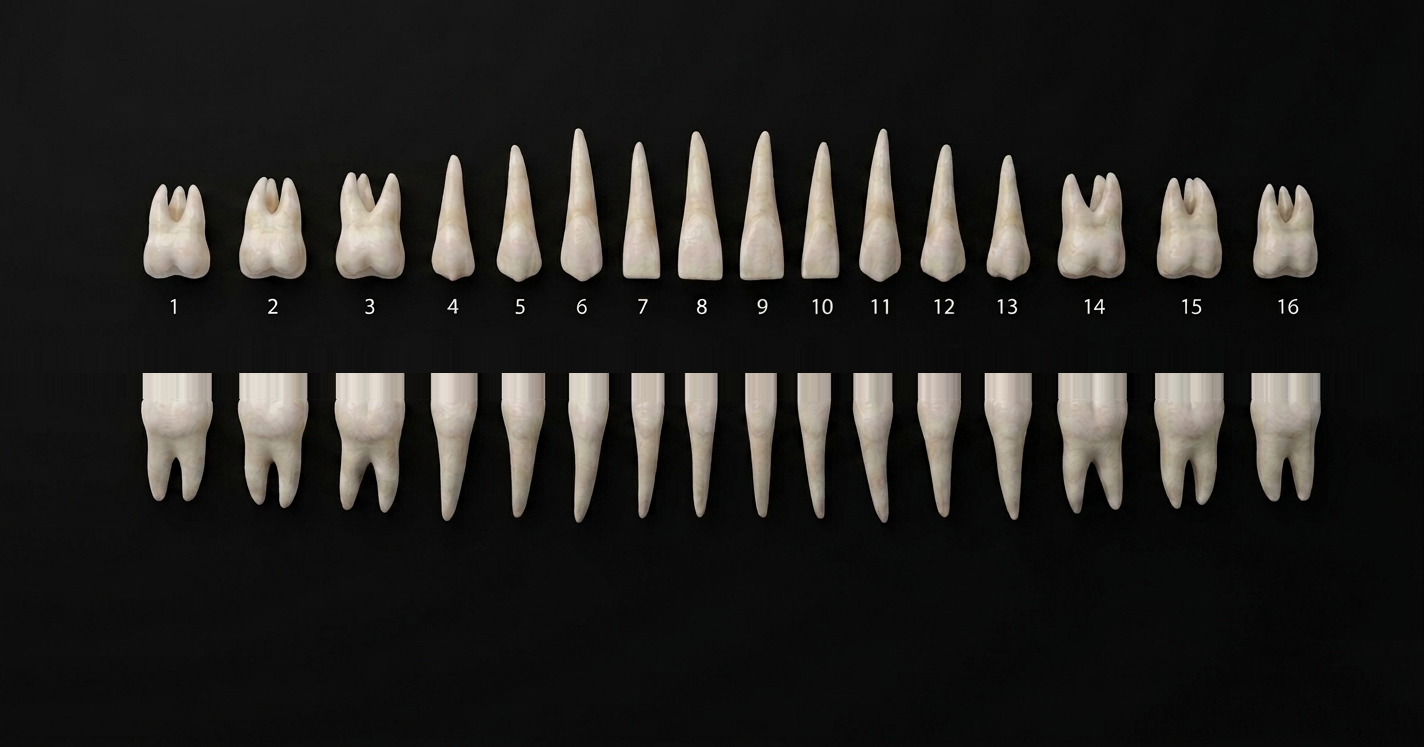
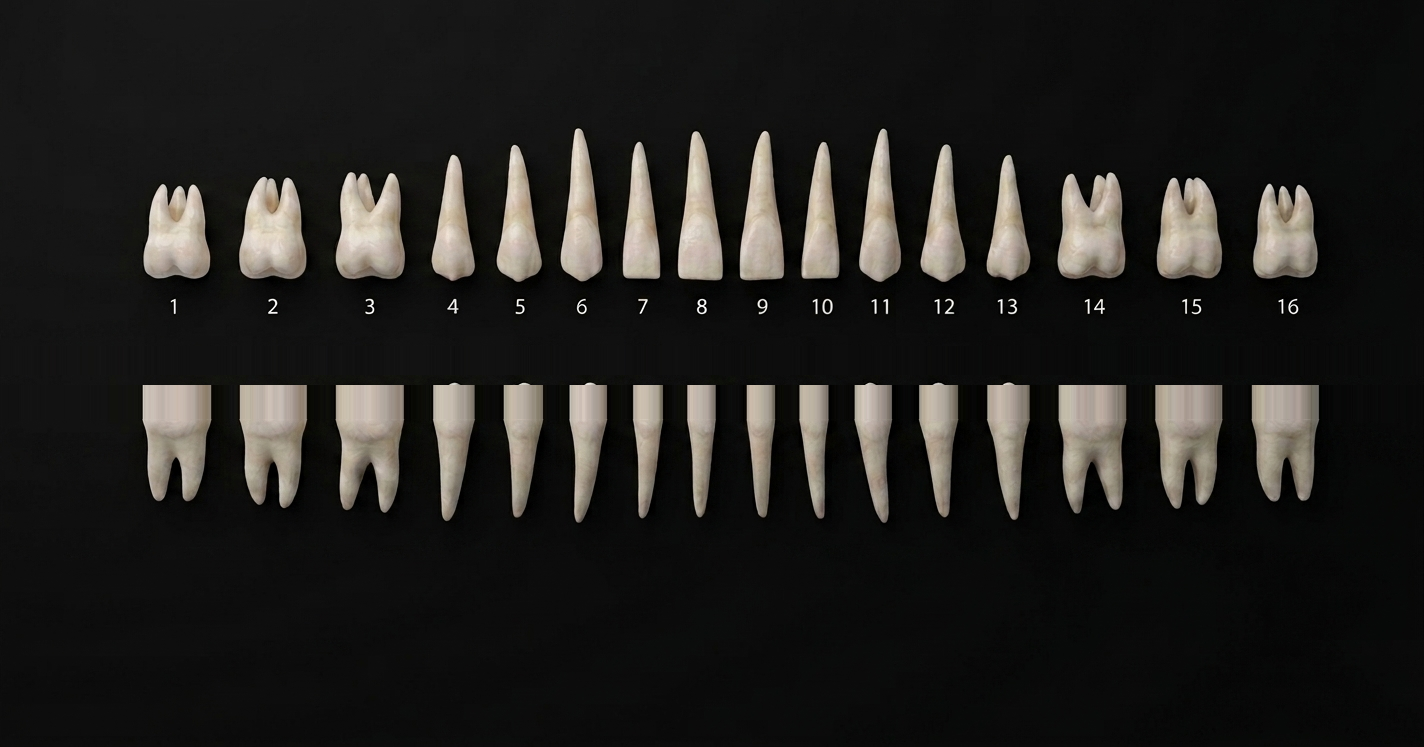
Fix lower label band removal, adjust HTML label positions

Changed region(s): [[0.0927, 0.4926, 0.927, 0.5542]]

diff --git a/resources/views/livewire/plan-builder/diagnosis-step.blade.php b/resources/views/livewire/plan-builder/diagnosis-step.blade.php
@@ -98,38 +98,38 @@
                     ];
 
                     $toothLabels = [
-                        '18' => ['ada' => '1', 'x' => '12.36%', 'y' => '47.5%'],
-                        '17' => ['ada' => '2', 'x' => '19.1%', 'y' => '47.5%'],
-                        '16' => ['ada' => '3', 'x' => '25.98%', 'y' => '47.5%'],
-                        '15' => ['ada' => '4', 'x' => '31.81%', 'y' => '47.5%'],
-                        '14' => ['ada' => '5', 'x' => '36.45%', 'y' => '47.5%'],
-                        '13' => ['ada' => '6', 'x' => '40.8%', 'y' => '47.5%'],
-                        '12' => ['ada' => '7', 'x' => '45.01%', 'y' => '47.5%'],
-                        '11' => ['ada' => '8', 'x' => '49.16%', 'y' => '47.5%'],
-                        '21' => ['ada' => '9', 'x' => '53.48%', 'y' => '47.5%'],
-                        '22' => ['ada' => '10', 'x' => '57.55%', 'y' => '47.5%'],
-                        '23' => ['ada' => '11', 'x' => '61.76%', 'y' => '47.5%'],
-                        '24' => ['ada' => '12', 'x' => '66.19%', 'y' => '47.5%'],
-                        '25' => ['ada' => '13', 'x' => '70.79%', 'y' => '47.5%'],
-                        '26' => ['ada' => '14', 'x' => '76.62%', 'y' => '47.5%'],
-                        '27' => ['ada' => '15', 'x' => '83.5%', 'y' => '47.5%'],
-                        '28' => ['ada' => '16', 'x' => '90.24%', 'y' => '47.5%'],
-                        '48' => ['ada' => '32', 'x' => '12.39%', 'y' => '52.2%'],
-                        '47' => ['ada' => '31', 'x' => '19.14%', 'y' => '52.2%'],
-                        '46' => ['ada' => '30', 'x' => '25.91%', 'y' => '52.2%'],
-                        '45' => ['ada' => '29', 'x' => '31.85%', 'y' => '52.2%'],
-                        '44' => ['ada' => '28', 'x' => '36.69%', 'y' => '52.2%'],
-                        '43' => ['ada' => '27', 'x' => '41.29%', 'y' => '52.2%'],
-                        '42' => ['ada' => '26', 'x' => '45.47%', 'y' => '52.2%'],
-                        '41' => ['ada' => '25', 'x' => '49.23%', 'y' => '52.2%'],
-                        '31' => ['ada' => '24', 'x' => '53.41%', 'y' => '52.2%'],
-                        '32' => ['ada' => '23', 'x' => '57.13%', 'y' => '52.2%'],
-                        '33' => ['ada' => '22', 'x' => '61.27%', 'y' => '52.2%'],
-                        '34' => ['ada' => '21', 'x' => '65.91%', 'y' => '52.2%'],
-                        '35' => ['ada' => '20', 'x' => '70.75%', 'y' => '52.2%'],
-                        '36' => ['ada' => '19', 'x' => '76.65%', 'y' => '52.2%'],
-                        '37' => ['ada' => '18', 'x' => '83.46%', 'y' => '52.2%'],
-                        '38' => ['ada' => '17', 'x' => '90.24%', 'y' => '52.2%'],
+                        '18' => ['ada' => '1', 'x' => '12.36%', 'y' => '48.2%'],
+                        '17' => ['ada' => '2', 'x' => '19.1%', 'y' => '48.2%'],
+                        '16' => ['ada' => '3', 'x' => '25.98%', 'y' => '48.2%'],
+                        '15' => ['ada' => '4', 'x' => '31.81%', 'y' => '48.2%'],
+                        '14' => ['ada' => '5', 'x' => '36.45%', 'y' => '48.2%'],
+                        '13' => ['ada' => '6', 'x' => '40.8%', 'y' => '48.2%'],
+                        '12' => ['ada' => '7', 'x' => '45.01%', 'y' => '48.2%'],
+                        '11' => ['ada' => '8', 'x' => '49.16%', 'y' => '48.2%'],
+                        '21' => ['ada' => '9', 'x' => '53.48%', 'y' => '48.2%'],
+                        '22' => ['ada' => '10', 'x' => '57.55%', 'y' => '48.2%'],
+                        '23' => ['ada' => '11', 'x' => '61.76%', 'y' => '48.2%'],
+                        '24' => ['ada' => '12', 'x' => '66.19%', 'y' => '48.2%'],
+                        '25' => ['ada' => '13', 'x' => '70.79%', 'y' => '48.2%'],
+                        '26' => ['ada' => '14', 'x' => '76.62%', 'y' => '48.2%'],
+                        '27' => ['ada' => '15', 'x' => '83.5%', 'y' => '48.2%'],
+                        '28' => ['ada' => '16', 'x' => '90.24%', 'y' => '48.2%'],
+                        '48' => ['ada' => '32', 'x' => '12.39%', 'y' => '53.5%'],
+                        '47' => ['ada' => '31', 'x' => '19.14%', 'y' => '53.5%'],
+                        '46' => ['ada' => '30', 'x' => '25.91%', 'y' => '53.5%'],
+                        '45' => ['ada' => '29', 'x' => '31.85%', 'y' => '53.5%'],
+                        '44' => ['ada' => '28', 'x' => '36.69%', 'y' => '53.5%'],
+                        '43' => ['ada' => '27', 'x' => '41.29%', 'y' => '53.5%'],
+                        '42' => ['ada' => '26', 'x' => '45.47%', 'y' => '53.5%'],
+                        '41' => ['ada' => '25', 'x' => '49.23%', 'y' => '53.5%'],
+                        '31' => ['ada' => '24', 'x' => '53.41%', 'y' => '53.5%'],
+                        '32' => ['ada' => '23', 'x' => '57.13%', 'y' => '53.5%'],
+                        '33' => ['ada' => '22', 'x' => '61.27%', 'y' => '53.5%'],
+                        '34' => ['ada' => '21', 'x' => '65.91%', 'y' => '53.5%'],
+                        '35' => ['ada' => '20', 'x' => '70.75%', 'y' => '53.5%'],
+                        '36' => ['ada' => '19', 'x' => '76.65%', 'y' => '53.5%'],
+                        '37' => ['ada' => '18', 'x' => '83.46%', 'y' => '53.5%'],
+                        '38' => ['ada' => '17', 'x' => '90.24%', 'y' => '53.5%'],
                     ];
                 @endphp
 
